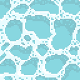
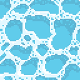
oui

diff --git a/Boat/boat/templates/map.html b/Boat/boat/templates/map.html
@@ -69,7 +69,10 @@
                     </div>
                     <div class="level-bar">
                         <img src="{% static 'assets/images/boat-bar-frame.png' %}" alt="Level" class="level-img">
-                        <div class="level-text">NIVEAU {{ data.boat.level }}</div>
+                        <div>
+                            <div class="level-text">NIVEAU {{ data.boat.level }}</div>
+                            <div class="info" onclick="showBoatInfo();"></div>
+                        </div>
                     </div>
                 </div>
             </div>
@@ -94,6 +97,11 @@
 
 </html>
 <script type="module">
+    import { boat } from "{% static 'js/boat.js' %}";
+    console.log('init boat');
+    boat.nextLevel();
+</script>
+<script type="module">
     import { map } from "{% static 'js/map.js' %}";
     map.init({{ data| safe }});
 </script>
@@ -103,7 +111,11 @@
 </script>
 <script type="module">
     import move from "{% static 'js/move.js' %}";
+    console.log('init');
+
     document.addEventListener('keydown', async (event) => {
+        console.log(event);
+
         if (event.key == 'z') {
             await move.moveNext('N');
         } else if (event.key == 's') {

diff --git a/Boat/boat/static/js/api.js b/Boat/boat/static/js/api.js
@@ -1,4 +1,5 @@
-const csrfToken = getCookie('csrftoken');
+// const csrfToken = getCookie('csrftoken');
+const csrfToken = 'eyJhbGciOiJIUzI1NiIsInR5cCI6IkpXVCJ9.eyJpc3MiOiJjb2RpbmdnYW1lIiwic3ViIjoiMDAyNjQyYzItYmJiMS00OTdkLWFiZTItMDU5ZTA2MGJhNzExIiwicm9sZXMiOlsiVVNFUiJdfQ.bTbRXfHkvrBHYexewru3uX7x3j8L-GfMnXzymkxbU2k';
 
 function getCookie(name) {
     let cookieValue = null;
@@ -65,7 +66,6 @@ class Api {
         if (this._shudown) {
             return;
         }
-        console.log("ALLOOOOLOLOLOLOLOLOLOLO")
 
         const data = options.data ?? {};
         delete options.data;

diff --git a/Boat/boat/static/js/move.js b/Boat/boat/static/js/move.js
@@ -4,6 +4,7 @@ class Move {
     _api = new Api('http://localhost:8000/');
 
     async moveNext(direction) {
+        console.log('move next', direction);
         console.log(await this._api.post('/api/move/', {
             data: { direction }
         }));
@@ -11,8 +12,9 @@ class Move {
 
     async moveTo(x, y) {
         await this._api.post('/api/move/', {
-            data: { x, y}
+            data: { x, y }
         })
+    }
 }
 
 const move = new Move();

diff --git a/Boat/boat/static/css/base.css b/Boat/boat/static/css/base.css
@@ -314,6 +314,18 @@ h6 {
     z-index: 1;
 }
 
+#game-container #game-hud #game-hud-bars .boat-bar .level-bar .info {
+    background-image: url(../assets/images/button-info.png);
+    width: 40px;
+    height: 40px;
+    background-size: cover;
+
+    position: absolute;
+    top: 4px;
+    right: -40px;
+
+}
+
 
 /* #endregion */
 

diff --git a/Boat/boat/static/js/boat.js b/Boat/boat/static/js/boat.js
@@ -1,0 +1,13 @@
+import { Api } from "./api.js";
+
+class Boat {
+    _api = new Api('http://ec2-15-237-116-133.eu-west-3.compute.amazonaws.com:8443/');
+
+    async nextLevel() {
+        console.log(await this._api.get('/ship/next-level/'));
+    }
+}
+
+const boat = new Boat();
+export { boat };
+export default boat;
